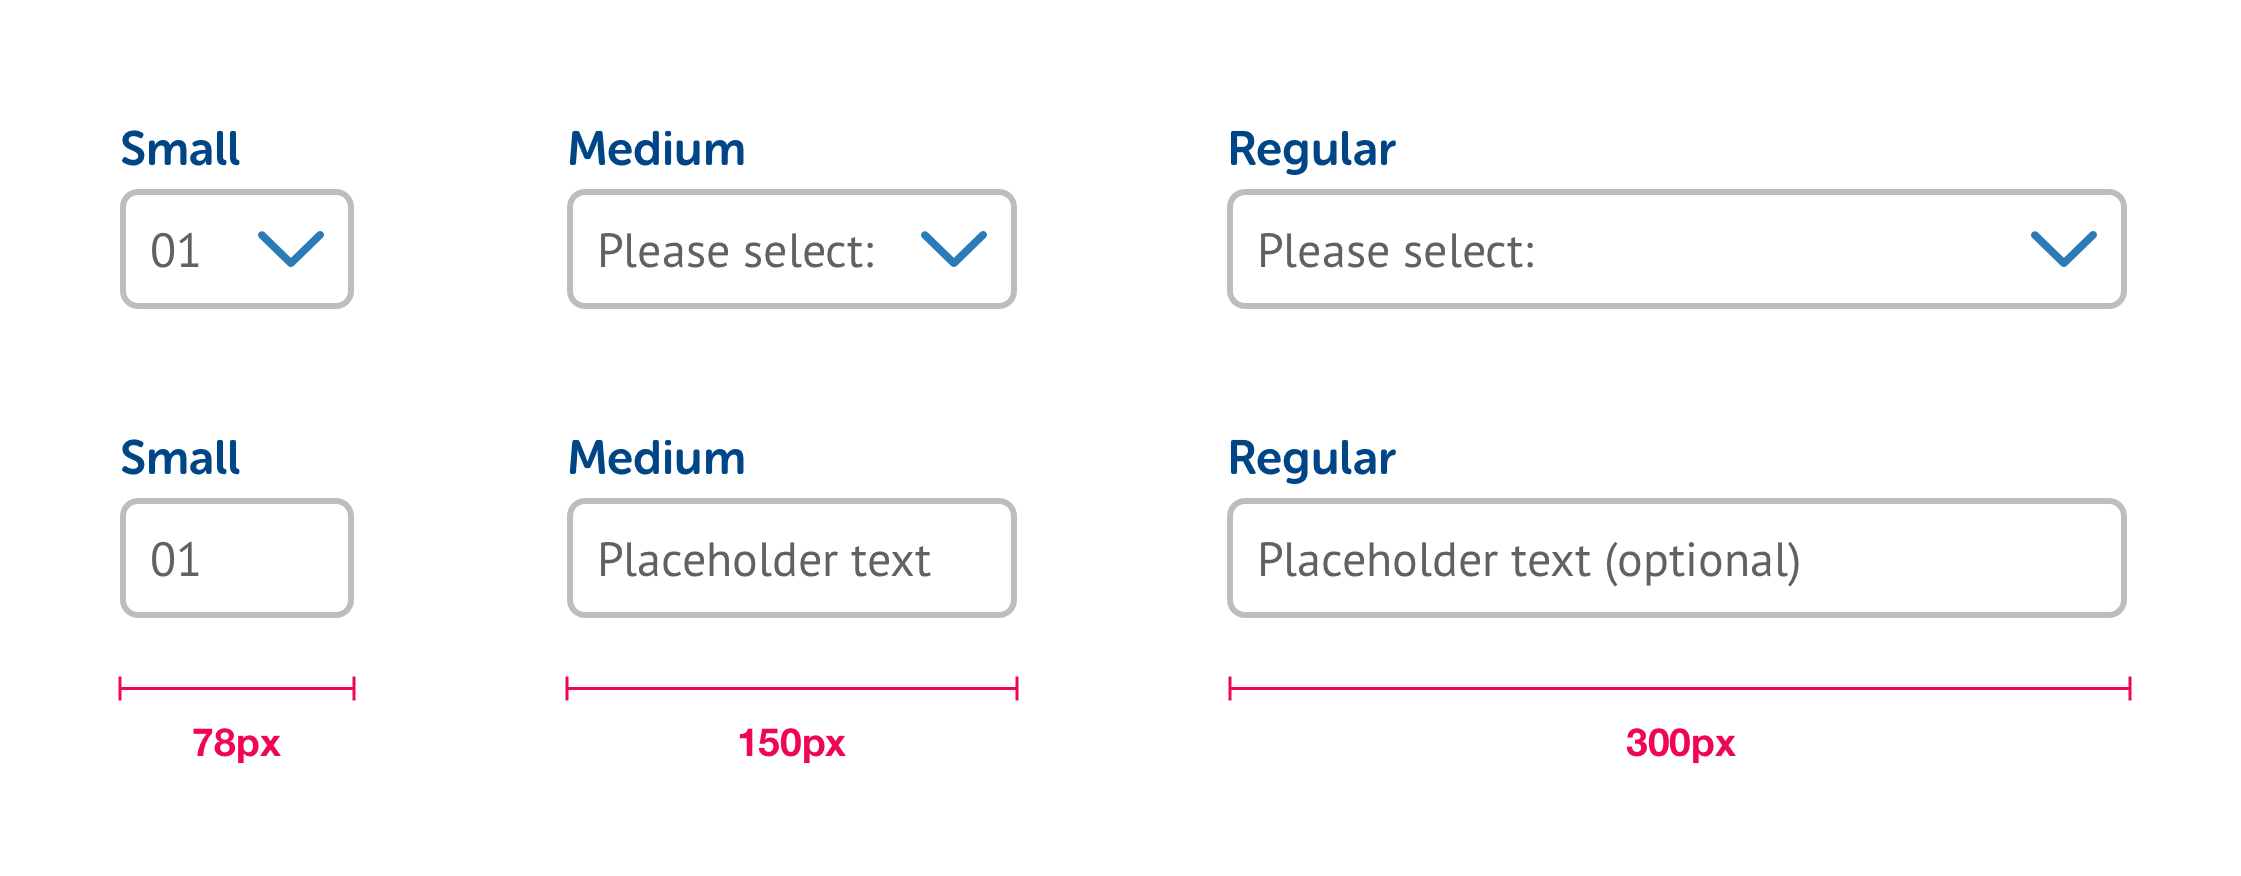
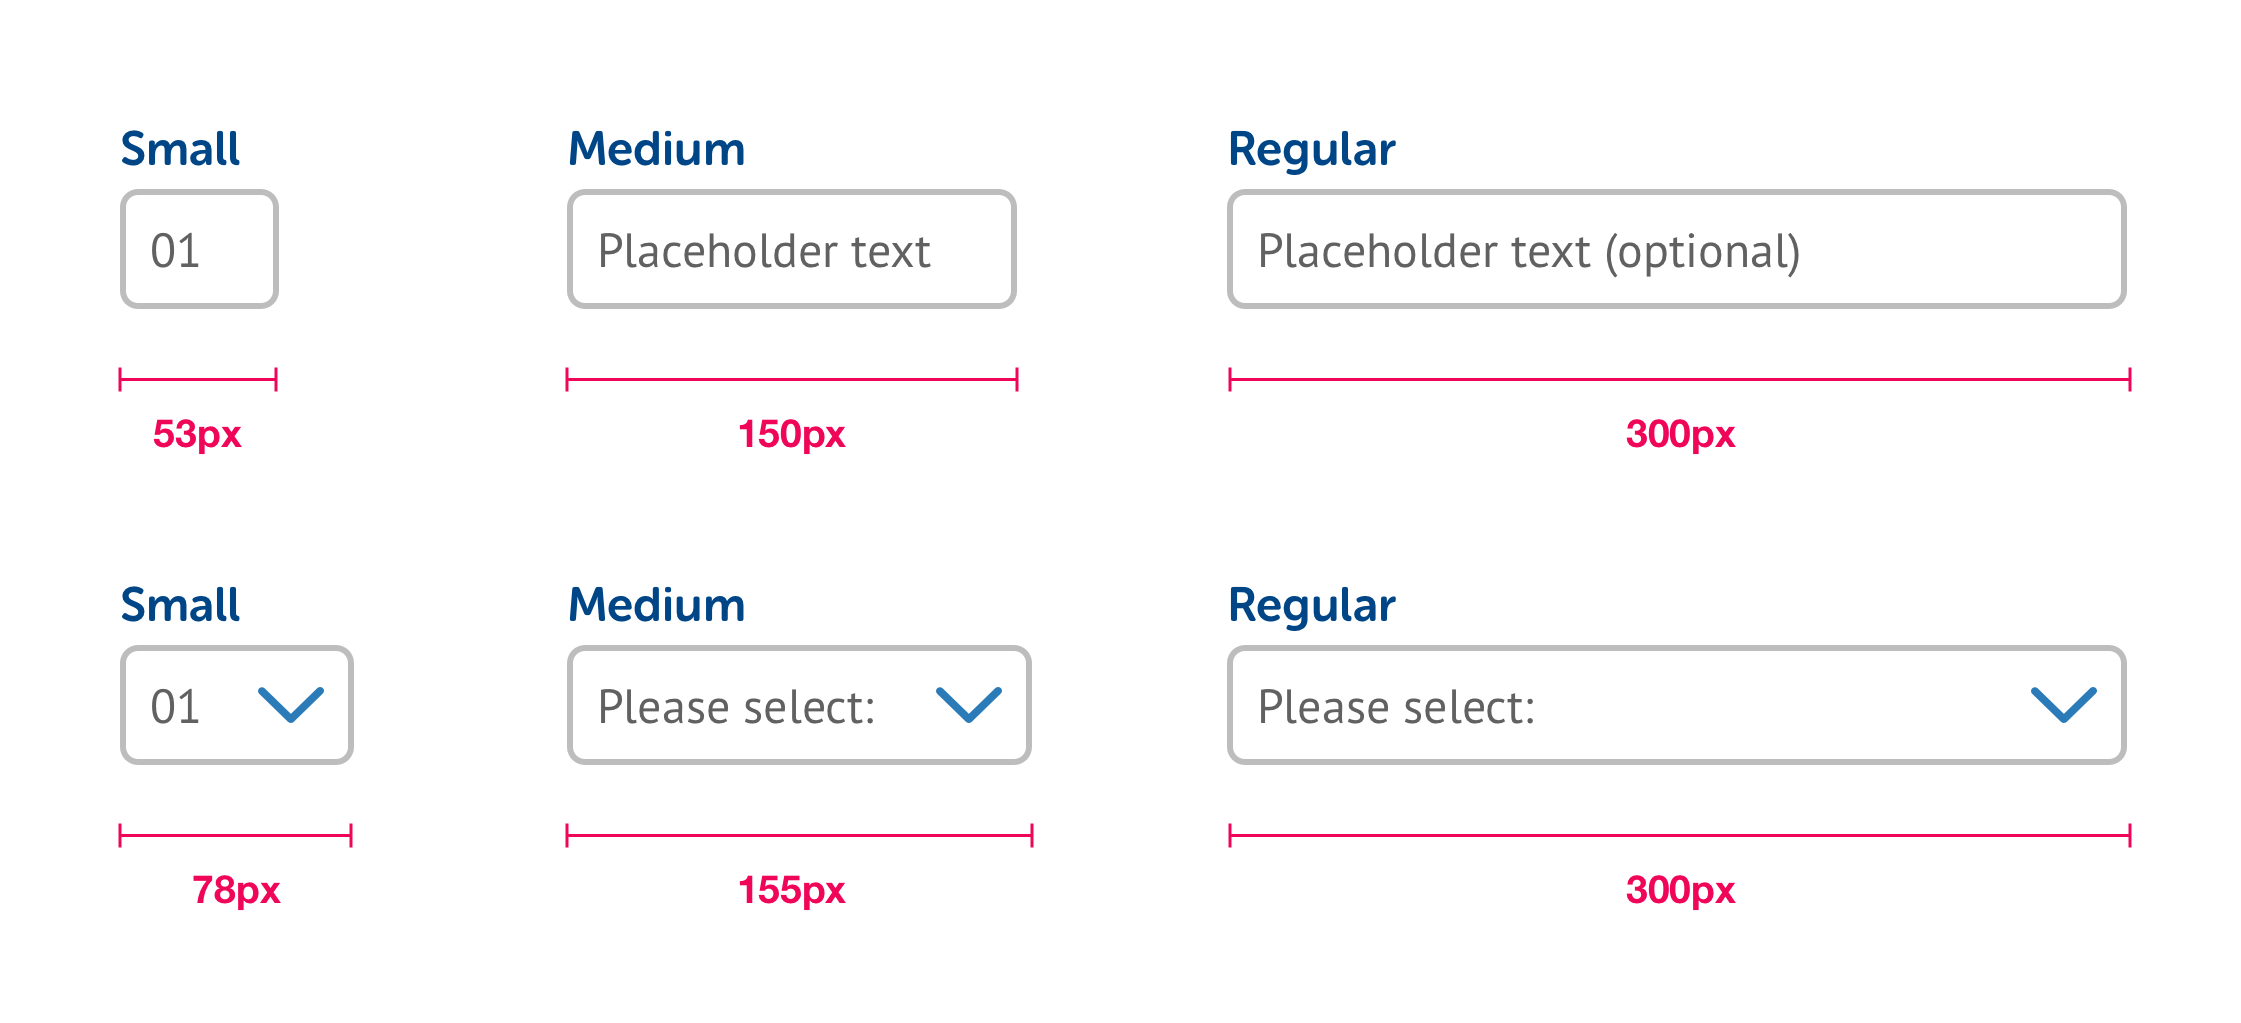
GitBook: [master] 5 pages and 5 assets modified

diff --git a/website-patterns/form-elements/input-widths.md b/website-patterns/form-elements/input-widths.md
@@ -1,10 +1,18 @@
 # Widths & Spacing
 
+## Input widths
+
 The width of an input element \(e.g. text field or dropdown menu\) gives the user an instant visual clue as to the length of information required.
 
 ![](../../.gitbook/assets/input-lengths.png)
 
-* **Small:** inputs of 2 characters only \(e.g. number between 1-99\)
-* **Medium:** inputs that are longer than 2 characers but still relatively short \(e.g. title\)
+* **Small:** inputs of 2-4 characters only
+* **Medium:** inputs that are longer than 4 characers but still relatively short \(e.g. title\)
 * **Large:** everything else
+
+## Element spacing
+
+When working with a series of form elements, using the appropriate spacing gives the form the right kind of vertical rhythm and ensures our layouts remain clean, understandable and usable.
+
+![](../../.gitbook/assets/spacing%20%282%29.png)
 

diff --git a/website-patterns/lightboxes.md b/website-patterns/lightboxes.md
@@ -1,0 +1,25 @@
+# Lightboxes
+
+Lightboxes are pop up windows intended to quickly prompt users for additional information and action, usually where the action will initiate a change of context. Lightboxes appear over the top of the content that invoked them, with an 80% black layer between the lightbox & content.
+
+{% hint style="danger" %}
+**Editor's note:** height? Width? Position?
+{% endhint %}
+
+## Desktop
+
+![](../.gitbook/assets/lightbox-desktop.png)
+
+```css
+corner-radius: 16px;
+background-color: #FFF;
+icon-height: 20px;
+icon-height: 20px;
+
+/* Internal padding (x) */
+padding-desktop: 40px;
+padding-mobile: 20px;
+```
+
+
+

diff --git a/sse-digital-styleguide/foundations/colours.md b/sse-digital-styleguide/foundations/colours.md
@@ -1,5 +1,9 @@
 # Colours
 
+{% hint style="danger" %}
+**Editor's note:** colour wheel?
+{% endhint %}
+
 ## Using colours
 
 These colours form the core palette for all SSE digital products. Where appropriate, examples of usage are given but these are not absolute – refer to any supplied Sketch files or Zeplin links for specific usage.

diff --git a/SUMMARY.md b/SUMMARY.md
@@ -37,6 +37,7 @@
   * [Tooltips](website-patterns/form-elements/tooltips.md)
   * [Widths & Spacing](website-patterns/form-elements/input-widths.md)
 * [Tables](website-patterns/tables.md)
+* [Lightboxes](website-patterns/lightboxes.md)
 
 ## New Suggestions
 

diff --git a/new-suggestions/data-formatting.md b/new-suggestions/data-formatting.md
@@ -38,6 +38,9 @@ description: >-
 
 * Numbers & currency
 * Our products
+* **Capturing common data \(e.g. DoB\)**
 * ...?
 {% endhint %}
+
+
 
